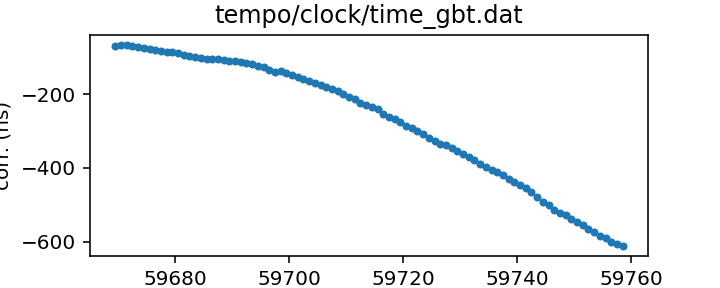
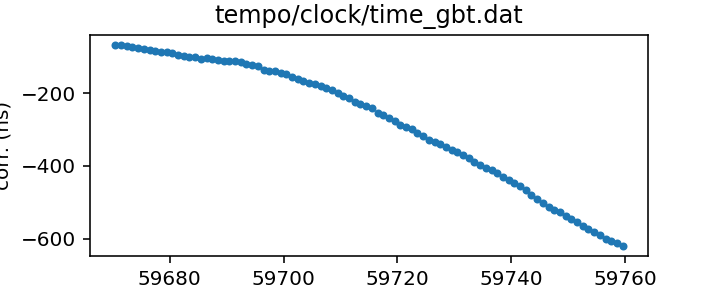
Routine gh-pages update from Github action Thu Jun 30 20:35:08 UTC 2022

diff --git a/status.md b/status.md
@@ -13,17 +13,17 @@ name of each clock file links to a page with more details.
 
 | Name | File | Corrections start | Corrections end | Last check date | Last check result 
 |:--- |:--- | --- | --- | --- |:--- 
-| [GPS to UTC](T2runtime/clock/gps2utc.clk.html) | `T2runtime/clock/gps2utc.clk` | 1993-01-01 MJD 48988.0 | 2022-05-30 MJD 59729.0 | 2022-06-29 | Unchanged 
-| [GPS to UTC (Combined Clock)](T2runtime/clock/gps2utc_cc.clk.html) | `T2runtime/clock/gps2utc_cc.clk` | 1993-01-01 MJD 48988.0 | 2022-05-30 MJD 59729.0 | 2022-06-29 | Unchanged 
-| [GPS to UTC (Corrected)](T2runtime/clock/gps2utc_c0p.clk.html) | `T2runtime/clock/gps2utc_c0p.clk` | 2010-12-29 MJD 55559.0 | 2022-05-30 MJD 59729.0 | 2022-06-29 | Unchanged 
-| [GBT](tempo/clock/time_gbt.dat.html) | `tempo/clock/time_gbt.dat` | 2000-12-31 MJD 51909.5 | 2022-06-28 MJD 59758.5 | 2022-06-29 | Updated 
-| [GBT (TEMPO2 converted from TEMPO)](T2runtime/clock/gbt2gps.clk.html) | `T2runtime/clock/gbt2gps.clk` | 2000-12-31 MJD 51909.5 | 2022-06-28 MJD 59758.5 | 2022-06-29 | Updated 
+| [GPS to UTC](T2runtime/clock/gps2utc.clk.html) | `T2runtime/clock/gps2utc.clk` | 1993-01-01 MJD 48988.0 | 2022-05-30 MJD 59729.0 | 2022-06-30 | Unchanged 
+| [GPS to UTC (Combined Clock)](T2runtime/clock/gps2utc_cc.clk.html) | `T2runtime/clock/gps2utc_cc.clk` | 1993-01-01 MJD 48988.0 | 2022-05-30 MJD 59729.0 | 2022-06-30 | Unchanged 
+| [GPS to UTC (Corrected)](T2runtime/clock/gps2utc_c0p.clk.html) | `T2runtime/clock/gps2utc_c0p.clk` | 2010-12-29 MJD 55559.0 | 2022-05-30 MJD 59729.0 | 2022-06-30 | Unchanged 
+| [GBT](tempo/clock/time_gbt.dat.html) | `tempo/clock/time_gbt.dat` | 2000-12-31 MJD 51909.5 | 2022-06-29 MJD 59759.5 | 2022-06-30 | Updated 
+| [GBT (TEMPO2 converted from TEMPO)](T2runtime/clock/gbt2gps.clk.html) | `T2runtime/clock/gbt2gps.clk` | 2000-12-31 MJD 51909.5 | 2022-06-29 MJD 59759.5 | 2022-06-30 | Updated 
 | [Jodrell Bank](T2runtime/clock/jb2gps.clk.html) | `T2runtime/clock/jb2gps.clk` | 2006-10-13 MJD 54021.4 | 2021-11-03 MJD 59521.0 | 2022-06-29 | Unchanged 
 | [Jodrell Bank Roach](T2runtime/clock/jbroach2jb.clk.html) | `T2runtime/clock/jbroach2jb.clk` | 2006-10-13 MJD 54021.4 | 2018-03-20 MJD 58197.6 | 2022-06-29 | Unchanged 
 | [Jodrell Bank DFB](T2runtime/clock/jbdfb2jb.clk.html) | `T2runtime/clock/jbdfb2jb.clk` | 2006-10-13 MJD 54021.4 | 2017-05-11 MJD 57884.0 | 2022-06-29 | Unchanged 
-| [Meerkat (observatory)](T2runtime/clock/mk2utc_observatory.clk.html) | `T2runtime/clock/mk2utc_observatory.clk` | 2019-01-01 MJD 58484.0 | 2022-06-16 MJD 59747.0 | 2022-06-23 | Updated 
-| [Leap seconds](tempo/clock/leap.sec.html) | `tempo/clock/leap.sec` | 1972-07-01 MJD 41499.0 | 2017-01-01 MJD 57754.0 | 2022-06-29 | Unchanged 
-| [UT1 table](tempo/clock/ut1.dat.html) | `tempo/clock/ut1.dat` | 1973-01-02 MJD 41684.0 | 2023-07-01 MJD 60126.0 | 2022-06-29 | Updated 
+| [Meerkat (observatory)](T2runtime/clock/mk2utc_observatory.clk.html) | `T2runtime/clock/mk2utc_observatory.clk` | 2019-01-01 MJD 58484.0 | 2022-06-16 MJD 59747.0 | 2022-06-30 | **Failed to download** 
+| [Leap seconds](tempo/clock/leap.sec.html) | `tempo/clock/leap.sec` | 1972-07-01 MJD 41499.0 | 2017-01-01 MJD 57754.0 | 2022-06-30 | Unchanged 
+| [UT1 table](tempo/clock/ut1.dat.html) | `tempo/clock/ut1.dat` | 1973-01-02 MJD 41684.0 | 2023-07-08 MJD 60133.0 | 2022-06-30 | Updated 
 
 
 
@@ -63,21 +63,21 @@ name of each clock file links to a page with more details.
 
 | Name | File | Corrections start | Corrections end | Last check date | Last check result 
 |:--- |:--- | --- | --- | --- |:--- 
-| [GPS to UTC (TEMPO2)](T2runtime/clock/gps2utc_tempo2.clk.html) | `T2runtime/clock/gps2utc_tempo2.clk` | 1996-03-27 MJD 50169.0 | 2020-10-27 MJD 59149.0 | 2022-06-23 | Unchanged 
+| [GPS to UTC (TEMPO2)](T2runtime/clock/gps2utc_tempo2.clk.html) | `T2runtime/clock/gps2utc_tempo2.clk` | 1996-03-27 MJD 50169.0 | 2020-10-27 MJD 59149.0 | 2022-06-30 | Unchanged 
 | [GBT (TEMPO2)](T2runtime/clock/gbt2gps_tempo2.clk.html) | `T2runtime/clock/gbt2gps_tempo2.clk` | 2000-12-31 MJD 51909.5 | 2020-02-25 MJD 58904.5 | 2022-06-29 | Unchanged 
-| [Jodrell Bank (TEMPO)](tempo/clock/time_jb.dat.html) | `tempo/clock/time_jb.dat` | 2006-10-13 MJD 54021.4 | 2019-05-13 MJD 58616.2 | 2022-06-23 | Unchanged 
-| [VLA](tempo/clock/time_vla.dat.html) | `tempo/clock/time_vla.dat` | 1990-10-27 MJD 48191.2 | 2021-03-07 MJD 59280.5 | 2022-06-23 | **Failed to download** 
+| [Jodrell Bank (TEMPO)](tempo/clock/time_jb.dat.html) | `tempo/clock/time_jb.dat` | 2006-10-13 MJD 54021.4 | 2019-05-13 MJD 58616.2 | 2022-06-30 | Unchanged 
+| [VLA](tempo/clock/time_vla.dat.html) | `tempo/clock/time_vla.dat` | 1990-10-27 MJD 48191.2 | 2021-03-07 MJD 59280.5 | 2022-06-30 | **Failed to download** 
 | [VLA (TEMPO2)](T2runtime/clock/vla2gps.clk.html) | `T2runtime/clock/vla2gps.clk` | 2015-02-01 MJD 57054.6 | 2021-03-07 MJD 59280.5 | 2022-06-29 | Unchanged 
 | [VLA to NIST](T2runtime/clock/vla2nist.clk.html) | `T2runtime/clock/vla2nist.clk` | 1990-10-27 MJD 48191.2 | 1993-11-13 MJD 49304.0 | 2022-06-29 | Unchanged 
-| [FAST](tempo/clock/time_fast.dat.html) | `tempo/clock/time_fast.dat` | 2017-07-26 MJD 57960.4 | 2019-09-18 MJD 58744.0 | 2022-06-23 | **Failed to download** 
-| [WSRT](T2runtime/clock/wsrt2gps.clk.html) | `T2runtime/clock/wsrt2gps.clk` | 1999-01-01 MJD 51179.5 | 2015-06-29 MJD 57202.1 | 2022-06-23 | Unchanged 
-| [WSRT (TEMPO)](tempo/clock/time_wsrt.dat.html) | `tempo/clock/time_wsrt.dat` | 1987-07-24 MJD 47000.0 | 2007-12-24 MJD 54458.0 | 2022-06-23 | **Validation failed** 
+| [FAST](tempo/clock/time_fast.dat.html) | `tempo/clock/time_fast.dat` | 2017-07-26 MJD 57960.4 | 2019-09-18 MJD 58744.0 | 2022-06-30 | **Failed to download** 
+| [WSRT](T2runtime/clock/wsrt2gps.clk.html) | `T2runtime/clock/wsrt2gps.clk` | 1999-01-01 MJD 51179.5 | 2015-06-29 MJD 57202.1 | 2022-06-30 | Unchanged 
+| [WSRT (TEMPO)](tempo/clock/time_wsrt.dat.html) | `tempo/clock/time_wsrt.dat` | 1987-07-24 MJD 47000.0 | 2007-12-24 MJD 54458.0 | 2022-06-30 | **Validation failed** 
 | [Parkes](T2runtime/clock/pks2gps.clk.html) | `T2runtime/clock/pks2gps.clk` | 1858-11-17 MJD 0.0 | 2019-07-31 MJD 58695.4 | 2022-06-29 | Unchanged 
-| [Parkes (TEMPO)](tempo/clock/time_pks.dat.html) | `tempo/clock/time_pks.dat` | 1979-05-07 MJD 44000.0 | 2011-07-03 MJD 55745.8 | 2022-06-23 | **Validation failed** 
+| [Parkes (TEMPO)](tempo/clock/time_pks.dat.html) | `tempo/clock/time_pks.dat` | 1979-05-07 MJD 44000.0 | 2011-07-03 MJD 55745.8 | 2022-06-30 | **Validation failed** 
 | [SRT](T2runtime/clock/srt2gps.clk.html) | `T2runtime/clock/srt2gps.clk` | 2013-03-20 MJD 56371.0 | 2019-12-11 MJD 58828.0 | 2022-06-29 | Unchanged 
 | [Effelsberg](T2runtime/clock/eff2gps.clk.html) | `T2runtime/clock/eff2gps.clk` | 1993-11-29 MJD 49320.0 | 2015-06-22 MJD 57195.5 | 2022-06-29 | Unchanged 
 | [Effelsberg Asterix/PSRix](T2runtime/clock/effix2gps.clk.html) | `T2runtime/clock/effix2gps.clk` | 2011-01-01 MJD 55562.5 | 2021-03-21 MJD 59294.5 | 2022-06-29 | Unchanged 
-| [NUPPI](tempo/clock/time_nuppi.dat.html) | `tempo/clock/time_nuppi.dat` | 2005-03-07 MJD 53436.0 | 2015-11-08 MJD 57334.6 | 2022-06-23 | Unchanged 
+| [NUPPI](tempo/clock/time_nuppi.dat.html) | `tempo/clock/time_nuppi.dat` | 2005-03-07 MJD 53436.0 | 2015-11-08 MJD 57334.6 | 2022-06-30 | Unchanged 
 | [Meerkat (TEMPO2)](T2runtime/clock/mk2utc.clk.html) | `T2runtime/clock/mk2utc.clk` | 2019-01-01 MJD 58484.0 | 2021-02-22 MJD 59268.0 | 2022-06-29 | Unchanged 
 | [MOST](T2runtime/clock/mo2gps.clk.html) | `T2runtime/clock/mo2gps.clk` | 2003-12-27 MJD 53000.0 | 2018-09-06 MJD 58367.0 | 2022-06-29 | Unchanged 
 | [Nancay to obspm](T2runtime/clock/ncyobs2obspm.clk.html) | `T2runtime/clock/ncyobs2obspm.clk` | 1988-05-18 MJD 47299.6 | 2021-11-01 MJD 59519.6 | 2022-06-29 | Unchanged 

diff --git a/tempo/clock/time_pks.dat.md b/tempo/clock/time_pks.dat.md
@@ -19,7 +19,7 @@ in the same file, distinguished only by observatory code.
 | Clock file start | 1979-05-07 MJD 44000.0 |
 | Clock file end | 2011-07-03 MJD 55745.8 |
 | Update interval (days) | 7 |
-| Last update attempt | 2022-06-23 |
+| Last update attempt | 2022-06-30 |
 | Last update result | Validation failed |
 
 Log entries from the last few update attempts:
@@ -31,6 +31,7 @@ Log entries from the last few update attempts:
 2022-06-09 13:27:38.008 - Validation failed: Unable to read new version of tempo/clock/time_pks.dat: Clock file /tmp/astropy-download-10364-7jnkh3d2 in format tempo appears to be out of order
 2022-06-16 18:26:27.550 - Validation failed: Unable to read new version of tempo/clock/time_pks.dat: Clock file /tmp/astropy-download-16102-wl7_58mt in format tempo appears to be out of order
 2022-06-23 20:34:09.487 - Validation failed: Unable to read new version of tempo/clock/time_pks.dat: Clock file /tmp/astropy-download-1628-9lvowo40 in format tempo appears to be out of order
+2022-06-30 20:34:32.763 - Validation failed: Unable to read new version of tempo/clock/time_pks.dat: Clock file /tmp/astropy-download-1748-evkt486o appears to be out of order
 ```
 [Full log](https://raw.githubusercontent.com/ipta/pulsar-clock-corrections/main/log/tempo/clock/time_pks.dat.log)
 

diff --git a/tempo/clock/time_wsrt.dat.md b/tempo/clock/time_wsrt.dat.md
@@ -19,7 +19,7 @@ should be the same information.
 | Clock file start | 1987-07-24 MJD 47000.0 |
 | Clock file end | 2007-12-24 MJD 54458.0 |
 | Update interval (days) | 7 |
-| Last update attempt | 2022-06-23 |
+| Last update attempt | 2022-06-30 |
 | Last update result | Validation failed |
 
 Log entries from the last few update attempts:
@@ -31,6 +31,7 @@ Log entries from the last few update attempts:
 2022-06-09 13:27:37.454 - Validation failed: Unable to read new version of tempo/clock/time_wsrt.dat: Clock file /tmp/astropy-download-10364-k344pvg3 in format tempo appears to be out of order
 2022-06-16 18:26:26.063 - Validation failed: Unable to read new version of tempo/clock/time_wsrt.dat: Clock file /tmp/astropy-download-16102-kfwwkg4q in format tempo appears to be out of order
 2022-06-23 20:34:08.289 - Validation failed: Unable to read new version of tempo/clock/time_wsrt.dat: Clock file /tmp/astropy-download-1628-qcimu3ta in format tempo appears to be out of order
+2022-06-30 20:34:31.251 - Validation failed: Unable to read new version of tempo/clock/time_wsrt.dat: Clock file /tmp/astropy-download-1748-m0u2j22f appears to be out of order
 ```
 [Full log](https://raw.githubusercontent.com/ipta/pulsar-clock-corrections/main/log/tempo/clock/time_wsrt.dat.log)
 

diff --git a/T2runtime/clock/gbt2gps.clk.md b/T2runtime/clock/gbt2gps.clk.md
@@ -23,14 +23,13 @@ If questions arise about the conversion, contact Anne Archibald
 | Format | tempo2 |
 | Bogus last correction | False |
 | Clock file start | 2000-12-31 MJD 51909.5 |
-| Clock file end | 2022-06-28 MJD 59758.5 |
+| Clock file end | 2022-06-29 MJD 59759.5 |
 | Update interval (days) | 1 |
-| Last update attempt | 2022-06-29 |
+| Last update attempt | 2022-06-30 |
 | Last update result | Updated |
 
 Log entries from the last few update attempts:
 ```
-2022-06-17 20:36:23.990 - Updated
 2022-06-18 20:31:48.963 - Updated
 2022-06-19 20:32:41.912 - Updated
 2022-06-20 20:34:08.816 - Updated
@@ -40,12 +39,13 @@ Log entries from the last few update attempts:
 2022-06-27 10:54:30.838 - Updated
 2022-06-28 20:35:07.591 - Updated
 2022-06-29 20:36:06.578 - Updated
+2022-06-30 20:34:24.689 - Updated
 ```
 [Full log](https://raw.githubusercontent.com/ipta/pulsar-clock-corrections/main/log/T2runtime/clock/gbt2gps.clk.log)
 
 Leading comments from clock file:
 
-    # This file was automatically converted from tempo/clock/time_gbt.dat on 2022-06-29 20:36:06.510
+    # This file was automatically converted from tempo/clock/time_gbt.dat on 2022-06-30 20:34:24.621
 
 
 

diff --git a/tempo/clock/time_gbt.dat.md b/tempo/clock/time_gbt.dat.md
@@ -18,14 +18,13 @@ If questions arise, contact Ryan S. Lynch <rlynch@nrao.edu>.
 | Format | tempo |
 | Bogus last correction | False |
 | Clock file start | 2000-12-31 MJD 51909.5 |
-| Clock file end | 2022-06-28 MJD 59758.5 |
+| Clock file end | 2022-06-29 MJD 59759.5 |
 | Update interval (days) | 1 |
-| Last update attempt | 2022-06-29 |
+| Last update attempt | 2022-06-30 |
 | Last update result | Updated |
 
 Log entries from the last few update attempts:
 ```
-2022-06-17 20:36:23.900 - Updated
 2022-06-18 20:31:48.893 - Updated
 2022-06-19 20:32:41.838 - Updated
 2022-06-20 20:34:08.753 - Updated
@@ -35,6 +34,7 @@ Log entries from the last few update attempts:
 2022-06-27 10:52:29.022 - Updated
 2022-06-28 20:35:07.521 - Updated
 2022-06-29 20:36:06.141 - Updated
+2022-06-30 20:34:24.619 - Updated
 ```
 [Full log](https://raw.githubusercontent.com/ipta/pulsar-clock-corrections/main/log/tempo/clock/time_gbt.dat.log)
 

diff --git a/tempo/clock/ut1.dat.md b/tempo/clock/ut1.dat.md
@@ -28,14 +28,13 @@ If there are any questions, contact Anne Archibald
 | File | `tempo/clock/ut1.dat` |
 | Authority | observatory |
 | File start | 1973-01-02 MJD 41684.0 |
-| File end | 2023-07-01 MJD 60126.0 |
+| File end | 2023-07-08 MJD 60133.0 |
 | Update interval (days) | 0 |
-| Last update attempt | 2022-06-29 |
+| Last update attempt | 2022-06-30 |
 | Last update result | Updated |
 
 Log entries from the last few update attempts:
 ```
-2022-06-23 14:10:28.636 - Unchanged
 2022-06-23 14:16:02.552 - Unchanged
 2022-06-23 14:24:50.933 - Unchanged
 2022-06-23 20:34:20.600 - Updated
@@ -45,5 +44,6 @@ Log entries from the last few update attempts:
 2022-06-29 14:23:17.206 - Updated
 2022-06-29 14:24:31.042 - Unchanged
 2022-06-29 20:36:22.174 - Updated
+2022-06-30 20:34:52.106 - Updated
 ```
 [Full log](https://raw.githubusercontent.com/ipta/pulsar-clock-corrections/main/log/tempo/clock/ut1.dat.log)

diff --git a/tempo/clock/time_jb.dat.md b/tempo/clock/time_jb.dat.md
@@ -16,12 +16,11 @@ This file is pulled from the TEMPO repository and may not be fully up-to-date.
 | Clock file start | 2006-10-13 MJD 54021.4 |
 | Clock file end | 2019-05-13 MJD 58616.2 |
 | Update interval (days) | 7 |
-| Last update attempt | 2022-06-23 |
+| Last update attempt | 2022-06-30 |
 | Last update result | Unchanged |
 
 Log entries from the last few update attempts:
 ```
-2022-05-24 17:59:43.857 - Unchanged
 2022-05-26 08:18:46.947 - Unchanged
 2022-05-26 08:24:35.288 - Unchanged
 2022-05-26 08:25:44.553 - Unchanged
@@ -31,6 +30,7 @@ Log entries from the last few update attempts:
 2022-06-09 13:27:34.964 - Unchanged
 2022-06-16 18:26:23.684 - Unchanged
 2022-06-23 20:34:06.767 - Unchanged
+2022-06-30 20:34:30.606 - Unchanged
 ```
 [Full log](https://raw.githubusercontent.com/ipta/pulsar-clock-corrections/main/log/tempo/clock/time_jb.dat.log)
 

diff --git a/T2runtime/clock/gps2utc_c0p.clk.md b/T2runtime/clock/gps2utc_c0p.clk.md
@@ -30,12 +30,11 @@ about the BIPM's published corrections, contact <tai@bipm.org>.
 | Clock file start | 2010-12-29 MJD 55559.0 |
 | Clock file end | 2022-05-30 MJD 59729.0 |
 | Update interval (days) | 1 |
-| Last update attempt | 2022-06-29 |
+| Last update attempt | 2022-06-30 |
 | Last update result | Unchanged |
 
 Log entries from the last few update attempts:
 ```
-2022-06-17 20:36:23.031 - Unchanged
 2022-06-18 20:31:47.888 - Unchanged
 2022-06-19 20:32:41.146 - Unchanged
 2022-06-20 20:34:08.223 - Unchanged
@@ -45,6 +44,7 @@ Log entries from the last few update attempts:
 2022-06-27 10:52:27.640 - Unchanged
 2022-06-28 20:35:07.154 - Unchanged
 2022-06-29 20:36:05.491 - Unchanged
+2022-06-30 20:34:24.324 - Unchanged
 ```
 [Full log](https://raw.githubusercontent.com/ipta/pulsar-clock-corrections/main/log/T2runtime/clock/gps2utc_c0p.clk.log)
 

diff --git a/T2runtime/clock/gps2utc_cc.clk.md b/T2runtime/clock/gps2utc_cc.clk.md
@@ -29,12 +29,11 @@ about the BIPM's published corrections, contact <tai@bipm.org>.
 | Clock file start | 1993-01-01 MJD 48988.0 |
 | Clock file end | 2022-05-30 MJD 59729.0 |
 | Update interval (days) | 1 |
-| Last update attempt | 2022-06-29 |
+| Last update attempt | 2022-06-30 |
 | Last update result | Unchanged |
 
 Log entries from the last few update attempts:
 ```
-2022-06-17 20:36:23.008 - Unchanged
 2022-06-18 20:31:47.871 - Unchanged
 2022-06-19 20:32:41.127 - Unchanged
 2022-06-20 20:34:08.207 - Unchanged
@@ -44,6 +43,7 @@ Log entries from the last few update attempts:
 2022-06-27 10:52:27.624 - Unchanged
 2022-06-28 20:35:07.143 - Unchanged
 2022-06-29 20:36:05.481 - Unchanged
+2022-06-30 20:34:24.313 - Unchanged
 ```
 [Full log](https://raw.githubusercontent.com/ipta/pulsar-clock-corrections/main/log/T2runtime/clock/gps2utc_cc.clk.log)
 

diff --git a/T2runtime/clock/gps2utc.clk.md b/T2runtime/clock/gps2utc.clk.md
@@ -32,12 +32,11 @@ about the BIPM's published corrections, contact <tai@bipm.org>.
 | Clock file start | 1993-01-01 MJD 48988.0 |
 | Clock file end | 2022-05-30 MJD 59729.0 |
 | Update interval (days) | 1 |
-| Last update attempt | 2022-06-29 |
+| Last update attempt | 2022-06-30 |
 | Last update result | Unchanged |
 
 Log entries from the last few update attempts:
 ```
-2022-06-17 20:36:22.949 - Unchanged
 2022-06-18 20:31:47.831 - Unchanged
 2022-06-19 20:32:41.086 - Unchanged
 2022-06-20 20:34:08.171 - Unchanged
@@ -47,6 +46,7 @@ Log entries from the last few update attempts:
 2022-06-27 10:52:27.595 - Unchanged
 2022-06-28 20:35:07.111 - Unchanged
 2022-06-29 20:36:05.449 - Unchanged
+2022-06-30 20:34:24.281 - Unchanged
 ```
 [Full log](https://raw.githubusercontent.com/ipta/pulsar-clock-corrections/main/log/T2runtime/clock/gps2utc.clk.log)
 

diff --git a/tempo/clock/leap.sec.md b/tempo/clock/leap.sec.md
@@ -21,12 +21,11 @@ If there are any questions, contact Anne Archibald
 | File start | 1972-07-01 MJD 41499.0 |
 | File end | 2017-01-01 MJD 57754.0 |
 | Update interval (days) | 0 |
-| Last update attempt | 2022-06-29 |
+| Last update attempt | 2022-06-30 |
 | Last update result | Unchanged |
 
 Log entries from the last few update attempts:
 ```
-2022-06-23 14:10:27.777 - Unchanged
 2022-06-23 14:16:01.582 - Unchanged
 2022-06-23 14:24:50.073 - Unchanged
 2022-06-23 20:34:10.920 - Unchanged
@@ -36,5 +35,6 @@ Log entries from the last few update attempts:
 2022-06-29 14:23:16.599 - Unchanged
 2022-06-29 14:24:30.428 - Unchanged
 2022-06-29 20:36:11.881 - Unchanged
+2022-06-30 20:34:44.821 - Unchanged
 ```
 [Full log](https://raw.githubusercontent.com/ipta/pulsar-clock-corrections/main/log/tempo/clock/leap.sec.log)

diff --git a/tempo/clock/time_vla.dat.md b/tempo/clock/time_vla.dat.md
@@ -17,7 +17,7 @@ This file is pulled from the PINT repository and may not be fully up-to-date.
 | Clock file start | 1990-10-27 MJD 48191.2 |
 | Clock file end | 2021-03-07 MJD 59280.5 |
 | Update interval (days) | 7 |
-| Last update attempt | 2022-06-23 |
+| Last update attempt | 2022-06-30 |
 | Last update result | Failed to download |
 
 Log entries from the last few update attempts:
@@ -29,6 +29,7 @@ Log entries from the last few update attempts:
 2022-06-09 13:27:35.487 - Unchanged
 2022-06-16 18:26:24.163 - Unchanged
 2022-06-23 20:34:06.925 - Failed to download: HTTP Error 404: Not Found
+2022-06-30 20:34:30.703 - Failed to download: HTTP Error 404: Not Found
 ```
 [Full log](https://raw.githubusercontent.com/ipta/pulsar-clock-corrections/main/log/tempo/clock/time_vla.dat.log)
 
